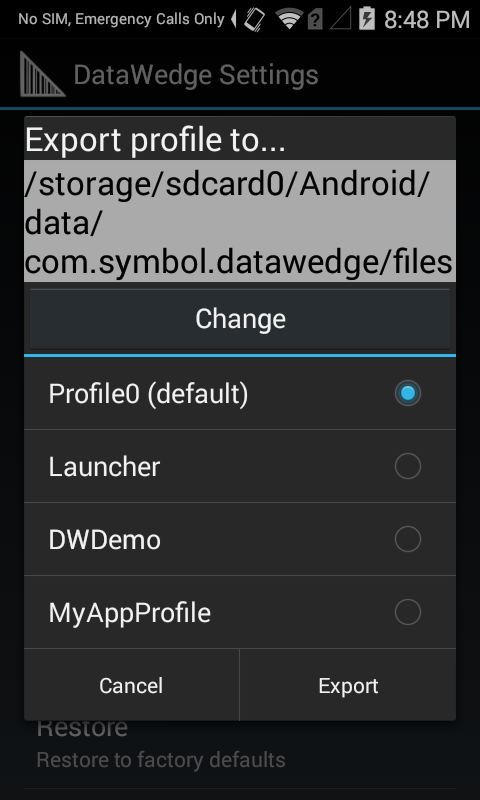
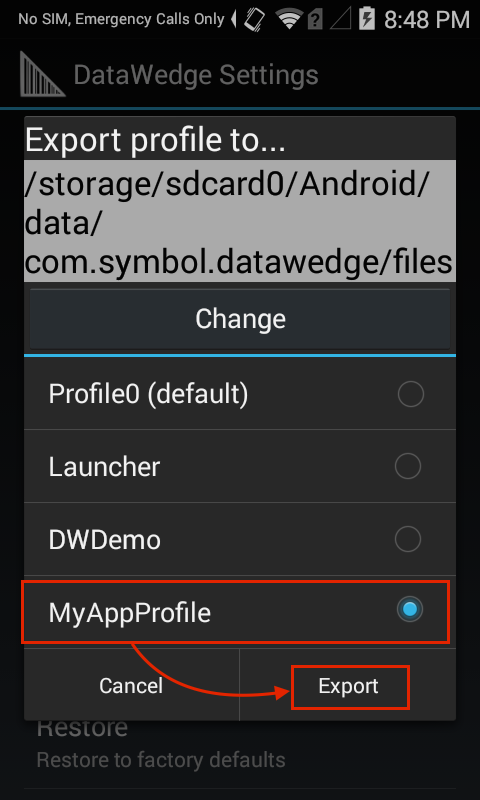
DW Advanced page ADF ongoing work

Changed region(s): [[0.0312, 0.7188, 0.9375, 0.9062], [0.8125, 0.4688, 0.875, 0.5312], [0.8438, 0.8438, 0.875, 0.875]]

diff --git a/src/datawedge/3-1/guide/advanced/index.md b/src/datawedge/3-1/guide/advanced/index.md
@@ -6,50 +6,55 @@ productversion: '3.1'
 ---
 
 ## Overview
-This guide covers advanced DataWedge features such as the Import and Export of Profiles and DataWedge configuration files, mass deployment of DataWedge settings to an enterprise, and Advanced Data Formatting, which allows acquired data to be manipulated based on its contents. 
+This guide covers advanced DataWedge features such as Profile and Config-file Import/Export, mass deployment of DataWedge settings, and Advanced Data Formatting, which allows acquired data to be manipulated based on its contents. 
 
-For this guide, a basic knowledge of DataWedge Profiles, Plug-ins and other concepts is required. Please see the [About](..about) and [Setup](../setup) guides for more information.	
+For this guide, a basic knowledge of DataWedge Profiles, Plug-ins and other concepts is required. If necessary, please see the [About](../about) and [Setup](../setup) guides for more information. 
 
-## DataWedge Settings Panel
+## DataWedge Settings
 Most of the functionality referenced here is accessed through the DataWedge Settings panel. 
 
-To access DataWedge Settings: 
+**To access DataWedge Settings**: 
 
-&49;. From the Profiles screen, **tap the "hamburger" menu and select Settings**. The DataWedge Settings panel appears as in Step 2. 
+&#49;. From the Profiles screen, **tap the "hamburger" menu and select Settings**. The DataWedge Settings panel appears as in Step 2, below. 
 <img style="height:350px" src="datawedge_settings.png"/>
 <br>
 
-&50;. 
+&#50;. **Tap the desired feature** to invoke or change its status. 
 <img style="height:350px" src="datawedge_settings_panel.png"/>
+_The DataWedge Settings panel_. 
 <br>
 
-**DataWedge enabled -** Controls the DataWedge service. Uncheck this box to disable DataWedge and return control of scanning hardware to the system.
+**Functions of the DataWedge Settings panel**: 
 
-**Enable logging -** Enables DataWedge to output logs for viewing in Logcat, Android Studio or a compatible viewer.
+* **DataWedge enabled -** Controls the DataWedge service. Uncheck this box to disable DataWedge and return control of scanning hardware to the system.
 
-**Import -** Imports a DataWedge configuration file from device Storage, replacing the current configuration.
+* **Enable logging -** Enables DataWedge to output logs for viewing in Logcat, Android Studio or a compatible viewer.
 
-**Export -** Exports the current DataWedge configuration to device storage.
+* **Import -** Invokes navigation to a DataWedge configuration file to import from device storage, replacing the current configuration.
 
-**Import Profile -** Imports an individual DataWedge Profile from device storage. If a Profile of the same name already exists in DataWedge, it will be replaced by the imported one. 
+* **Export -** Exports the current DataWedge configuration to device storage. 
 
-**Export Profile -** Exports an individual DataWedge profile to device storage.
+* **Import Profile -** Invokes navigation to a DataWedge Profile to import from device storage. If a Profile of the same name already exists in DataWedge, it will be replaced by the imported one. 
 
-**Restore -** Returns DataWedge on the device to factory default settings. 
+* **Export Profile -** Exports an individual DataWedge profile to device storage.
+
+* **Restore -** Returns DataWedge on the device to factory default settings. 
 
 ### Logging
-DataWedge provides the option of outputting system log messages to the device for viewing through the Logcat command line tool, Android Studio or another compatible viewer, usually over a USB connection. 
+DataWedge provides the option of outputting system log messages for viewing through the Logcat command line tool, Android Studio or another compatible viewer, usually over a USB connection. 
 
 **To Enable/Disable logging**: 
 
-&#50;. From the DataWedge Settings panel, **tap Enable Logging** to enable or disdable logging as desired. 
+From the DataWedge Settings panel, **tap Enable Logging** to enable or disdable logging as desired. 
 <img style="height:350px" src="datawedge_logging.png"/>
 <br>
 
 ### Import Configuration
-DataWedge can accept settings created on another device and distributed throughout an entperirse by importing a DataWedge Configuration file. This file contain Profiles, Plug-ins and other DataWedge settings stored on the device in a file called `datawedge.db`.  
+DataWedge can accept settings created on another device and distributed throughout an enterprise by importing a DataWedge Configuration file. This file contains Profiles, Plug-ins and other DataWedge settings stored on the device. 
 
-**To Import a DataWedge Confoguration file**:    
+The DataWedge configuration file is always called `datawedge.db`.  
+
+**To Import a DataWedge Configuration file**:    
 
 &#49;. From the DataWedge Settings panel, **tap Import**. A screen appears similar to the one in Step 2, below. 
 <img style="height:350px" src="datawedge_import_config.png"/>
@@ -61,7 +66,7 @@ Imported settings take effect immediately and overwrite all prior settings.
 <br>
 
 ### Export Configuration
-Once DataWedge is set up and configured as desired on a device, its settings file can be exported, distributed to other devices, imported automatically and activated immediately (or manually, as above). 
+Once DataWedge is set up and configured as desired on a device, its settings file can be exported, distributed to other devices, imported and activated automatically (or imported manually, as above). 
 
 **To Export a DataWedge Configuration file**: 
 
@@ -69,128 +74,82 @@ Once DataWedge is set up and configured as desired on a device, its settings fil
 <img style="height:350px" src="datawedge_export_config.png"/>
 <br>
 
-&#50;. If more than one storage device exists, **navigate to the desired storage device and tap Export**. Only the storage device may be selected; the path will be inserted automatically.  
+&#50;. If more than one storage device exists, **tap the desired storage device, then tap Export**. Only the storage device may be selected; the path will be inserted automatically.  
 <img style="height:350px" src="02_export_config.png"/>
 <br>
 
-Exported file can now be distributed to other devices manually or by using a Mobile Device Management (MDM) system. 
+The default path and filename of an exported configuration file is:
+`/storage/sdcard0/Android/data/com.symbol.datawedge/files/datawedge.db` 
+
+If an external SD card is installed, an alternate path can be selected: 
+`/storage/sdcard1/Android/data/com.symbol.datawedge/files/datawedge.db`
+
+&#51;. **Retrieve the file `datawedge.db` from the device** and distribute to other devices manually or through a Mobile Device Management (MDM) system. 
 
 ### Import a Profile
-describe the value
+Importing a Profile enables settings created elsewhere to quickly be activated on a device. This enables organizations to develop and fine-tune Profiles in a test lab, for example, before exporting and deploying them to the field. For more information, see Export a Profile, below.  
 
+While the Profile importing _process_ is similar to that of the Configuration file, and both replace what came before, the Profile _itself_ is very different. A Profile contains settings that control how DataWedge will behave with one or more specific applications. A Config file might contain numerous Profiles as well as other DataWedge settings, and when imported, **overwrites all previous DataWedge settings and Profiles**. 
 
-&#49;. From the
+**To Import a DataWedge Profile**:  
+
+&#49;. From the DataWedge Settings panel, **tap Import Profile** as highlighted below. A screen appears similar to the one in Step 2. 
 <img style="height:350px" src="datawedge_import_profile.png"/>
 <br>
 
-&#50;. From the
+&#50;. **Navigate to the file being imported** from device storage using the interface provided: 
 <img style="height:350px" src="03_import_profile.png"/>
+**Warning**: If a Profile of the same name already exists on the device, it will be replaced by the imported one. 
 <br>
-
 
 ### Export a Profile
-describe the value
+Once a DataWedge Profile is set up and configured as desired on a device, it can be exported and distributed for use on other devices throughout an enterprise. This enables a company to fine-tune settings for the acquisition, manipulation and disposition of data for specific applications(s), and easily propogate those settings to others in the organization.  
 
+If more than one Profile is to be created, exported and distributed at the same time, it might be beneficial to create and export the Profiles together as a single DataWedge Configuration file. 
 
-&#49;. From the
+**To Export a Profile**: 
+
+&#49;. From the DataWedge Settings panel, **tap Export Profile** as highlighted below. A list of Profiles on the device appears similar to the image in Step 2.
 <img style="height:350px" src="datawedge_export_profile.png"/>
 <br>
-&#50;. From the
+
+&#50;. If more than one storage device exists, **tap the desired storage device, then the name of the Profile to be exported, then tap Export**. Only the storage device and Profile may be selected; the path will be inserted automatically.
 <img style="height:350px" src="04_export_profile.png"/>
 <br>
 
-### Export a Profile
-describe the value 
+The default path and filename of an exported Profile is:
+`/storage/sdcard0/Android/data/com.symbol.datawedge/files/dwprofile_[profilename].db` 
 
-**This action cannot be undone**. 
+If an external SD card is installed, an alternate path can be selected: 
+`/storage/sdcard1/Android/data/com.symbol.datawedge/files/dwprofile_[profilename].db`
 
+&#51;. **Retrieve the exported file from the device** and distribute to other devices manually or through a Mobile Device Management (MDM) system. 
 
-&#49;. From the
+**Warning: If a Profile exists on the device with the same name as one being imported, the existing profile will be overwritten by the imported one**. 
+
+### Restore (defaults)
+DataWedge has the ability to reset all user-configured settings and restore them to their original factory defaults. **This action cannot be undone**. 
+
+**To Restore DataWedge to its factory-default settings**:
+
+&#49;. From the DataWedge Settings panel, **tap Restore** as highlighted below. A confirmation screen appears similar to the image in Step 2.
 <img style="height:350px" src="datawedge_restore.png"/>
 <br>
 
-&#50;. From the
+&#50;. **Tap Yes to Restore factory defaults** or No to cancel. 
 <img style="height:350px" src="05_restore_defaults.png"/>
 <br>
 
+## Advanced Data Formatting
+Through Advanced Data Formatting, DataWedge permits data acquired from barcode scanning, magstripe reading or other methods to be manipulated based on the data content. To determine how and whether the data should be altered, the ADF Plug-in applies rules that perform actions on data based on specific criteria relating to the data itself. For example, a rule might be created to check the first four digits of any 16-digit number to determine if it's a credit card affiliated with a specific bank.
 
+**Rules -** The ADF process plug-in consists of one or more rules. DataWedge formats the output data according to the first matching rule. A rule is a combination of criteria and a set of actions to be performed, upon fulfillment of the criteria set in the rule.
 
+**Criteria -** Criteria can be set according to Input plug-in, symbology, matching string within the data (at the specified position) and/or data length. Received data must match the defined criteria in order for the data to be processed.
 
+**Actions -** A set of procedures defined to format data. There are four types of actions which are for formatting cursor movement, data modification, data sending and delay specifications. An action can be defined to send the first number of characters to the Output plug-in, pad the output data with spaces or zeros, remove spaces in data, etc.
 
-
-
-
-
-
-
-
-
-Touch  Menu > Settings.
-
-DataWedge Settings Screen
-Figure 21. DataWedge Settings Window
-
-
-Import Configuration File
-To import a DataWedge configuration file:
-
-Copy the configuration file to a location in the file system.
-
-Touch  Home > DataWedge.
-
-Touch  Menu > Settings > Import.
-
-Select "datawedge.db" file if it is exist in the files browser dialog. Use ., .. and folder entries to browse and select the required DataWedge configuration file. The configuration file (datawedge.db) is imported and replaces the current configuration.
-
-Export Configuration File
-To export a DataWedge configuration file:
-
-Touch  Home > DataWedge.
-
-Touch  Menu > Settings > Export.
-
-Touch Export button to export the DataWedge configuration file to the predefined location(s) in the device. Default location is /storage/sdcard0/Android/data/com.symbol.datawedge/files. If the external SD card is available the second location will be listed: /storage/sdcard1/Android/data/com.symbol.datawedge/files.
-
-Import Profile Configuration File
-To import a DataWedge profile configuration file:
-
-Copy the profile configuration file to the root of the mobile computer device Storage.
-
-Touch  Home > DataWedge.
-
-Touch  Menu > Settings > Import Profile.
-
-Select the profile configuration file (dwprofile_xxx.db) in the file selection dialog. Use ., .., and Folder entries to browse to the required file in the file system. button to export the DataWedge configuration file (datawedge.db) to to the selected location in the folder browser dialog. Select ., .. and Folders list to select the desired folder to export the configuration.
-
-Note    Profile configuration file must have the dwprofile_ prefix followed by the profile name and the file extention should .db.
-Export Profile Configuration File
-To export a DataWedge profile configuration file:
-
-Touch  Home > DataWedge.
-
-Touch  Menu > Settings > Export Profile.
-
-Select the profile from the profile list and press Export button to export the profile file to the predefined location(s) in the device. Default location is /storage/sdcard0/Android/data/com.symbol.datawedge/files. If the external SD card is available the second location will be listed: /storage/sdcard1/Android/data/com.symbol.datawedge/files. The profile configuration will be exported to the selected location with the file name dwprofile_profilename.db.
-
-Restore DataWedge
-To restore DataWedge to the factory default configuration:
-
-Touch  Home > DataWedge >  Menu > Settings > Restore.
-
-Touch Yes.
-
-
-## Generating Advanced Data Formatting Rules
-
-The ADF plug-in applies rules (actions to be performed based on defined criteria) to the data received via the Input plug-in before sending it to the Output plug-in.
-
-Rules - The ADF process plug-in consists of one or more rules. DataWedge formats the output data according to the first matching rule. A rule is a combination of criteria and a set of actions to be performed, upon fulfillment of the criteria set in the rule.
-
-Criteria - Criteria can be set according to Input plug-in, symbology, matching string within the data (at the specified position) and/or data length. Received data must match the defined criteria in order for the data to be processed.
-
-Actions - A set of procedures defined to format data. There are four types of actions which are for formatting cursor movement, data modification, data sending and delay specifications. An action can be defined to send the first number of characters to the Output plug-in, pad the output data with spaces or zeros, remove spaces in data, etc.
-
-Configuring ADF Plug-in
+### Configuring ADF Plug-in
 Configuring the ADF plug-in consists of creating a rule, defining the criteria and defining the actions.
 
 Touch  Home > DataWedge.

diff --git a/src/datawedge/3-1/guide/setup/index.md b/src/datawedge/3-1/guide/setup/index.md
@@ -22,7 +22,7 @@ When associated with an app, DataWedge can be invoked to scan and acquire the da
 _**This guide describes DataWedge for Android. Features and usage of Windows versions may vary slightly**_.
 
 ##Profiles
-Profiles contain information about how DataWedge should behave with an associated application, and provide a means to allow different apps that might be acquiring the same data to do different things with it. For example, while "App A" might require that a TAB be sent after each dataset is passed from DataWedge, "App B" might require the ENTER key to be pressed instead. Through Profiles, DataWedge can be configured to process the same set of captured data according to the requirements of any number of individual applications. Alternatively, a **single** Profile can be created and associated with **many applications**, acquiring and processing data in exactly the same way for all. 
+A DataWedge Profile contains information about how DataWedge should behave with one or more associated applications, and provides a means to allow different apps that might be acquiring the same data to do different things with it. For example, while "App A" might require that a TAB be sent after each dataset is passed from DataWedge, "App B" might require the ENTER key to be pressed instead. Through Profiles, DataWedge can be configured to process the same set of captured data according to the requirements of any number of individual applications. Alternatively, a **single** Profile can be created and associated with **many applications**, acquiring and processing data in exactly the same way for all. 
 
 Any number of Profiles can be created to suit all the needs of an enterprise. DataWedge also includes several pre-configured Profiles to support general needs or for specific apps that are built into every device. Some of these, such as Profile0, are visible to the user and can be edited as needed. Others contain fixed parameters and are not visible or configurable. 
 

diff --git a/src/datawedge/3-1/guide/decoders/index.md b/src/datawedge/3-1/guide/decoders/index.md
@@ -243,9 +243,9 @@ _&#42; See **Decode Lengths** section, below_
 
 **Redundancy -** Sets the reader to read the barcode twice before accepting data.
 
-**Convert Code39 To Code32 -** Code 32 is a variant of Code 39 used by the Italian pharmaceutical industry. Scan the appropriate barcode below to enable or disable converting Code 39 to Code 32.
+**Convert Code39 To Code32 -** Code 32 is a variant of Code 39 used by the Italian pharmaceutical industry. 
 
-**Report Code32 Prefix -** Scan the appropriate barcode to enable or disable adding the prefix character "A" to all Code 32 barcodes.
+**Report Code32 Prefix -** Enables the addition of the prefix character "A" to all Code 32 barcodes.
 
 **Security Level -** Options: Security level 0, Security Level 1, Security Level 2 and Security Level 3.
 
